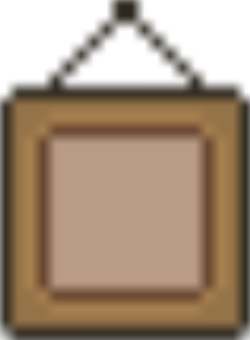
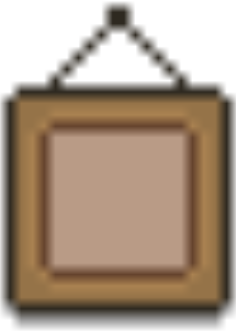
f

diff --git a/src/core/Game.java b/src/core/Game.java
@@ -214,14 +214,15 @@ public class Game extends JPanel implements MouseListener, MouseMotionListener {
 //		furniture.add(new Furniture("Books 3", 134, 41, 144, 139));
 		//wall
 		furniture.add(new Furniture("Window", 134, 41, 144, 139));
-		furniture.add(new Furniture("Picture 3", 19, 22, 45, 62));
-		furniture.add(new Furniture("Picture 5", 56, 101, 50, 67));
+		furniture.add(new Furniture("Picture 3", 19, 22, 60, 62));
+		furniture.add(new Furniture("Picture 5", 56, 101, 50, 68));
 		furniture.add(new Furniture("Clock", 349, 59, 50, 50));
-		furniture.add(new Furniture("Picture 3", 294, 112, 36, 48));
-		furniture.add(new Furniture("Picture 4", 424, 5, 52, 70));
-		furniture.add(new Furniture("Picture 5", 500, 55, 42, 56));
-		furniture.add(new Furniture("Picture", 529, 8, 63, 42));
-		furniture.add(new Furniture("Picture 2", 605, 49, 60, 69));
+		furniture.add(new Furniture("Picture 3", 295, 103, 39, 55));
+		furniture.add(new Furniture("Picture 4", 424, 5, 52, 71));
+		furniture.add(new Furniture("Picture 5", 508, 49, 44, 59));
+		furniture.add(new Furniture("Picture 2", 582, 11, 80, 74));
+		furniture.add(new Furniture("Picture 2", 811, 14, 35, 45));
+		furniture.add(new Furniture("Picture", 918, 20, 130, 92));
 		//near bed stuff
 		furniture.add(new Furniture("Vase 3", 18, 212, 28, 44));
 		furniture.add(new Furniture("Lamp", 50, 195, 45, 63));
